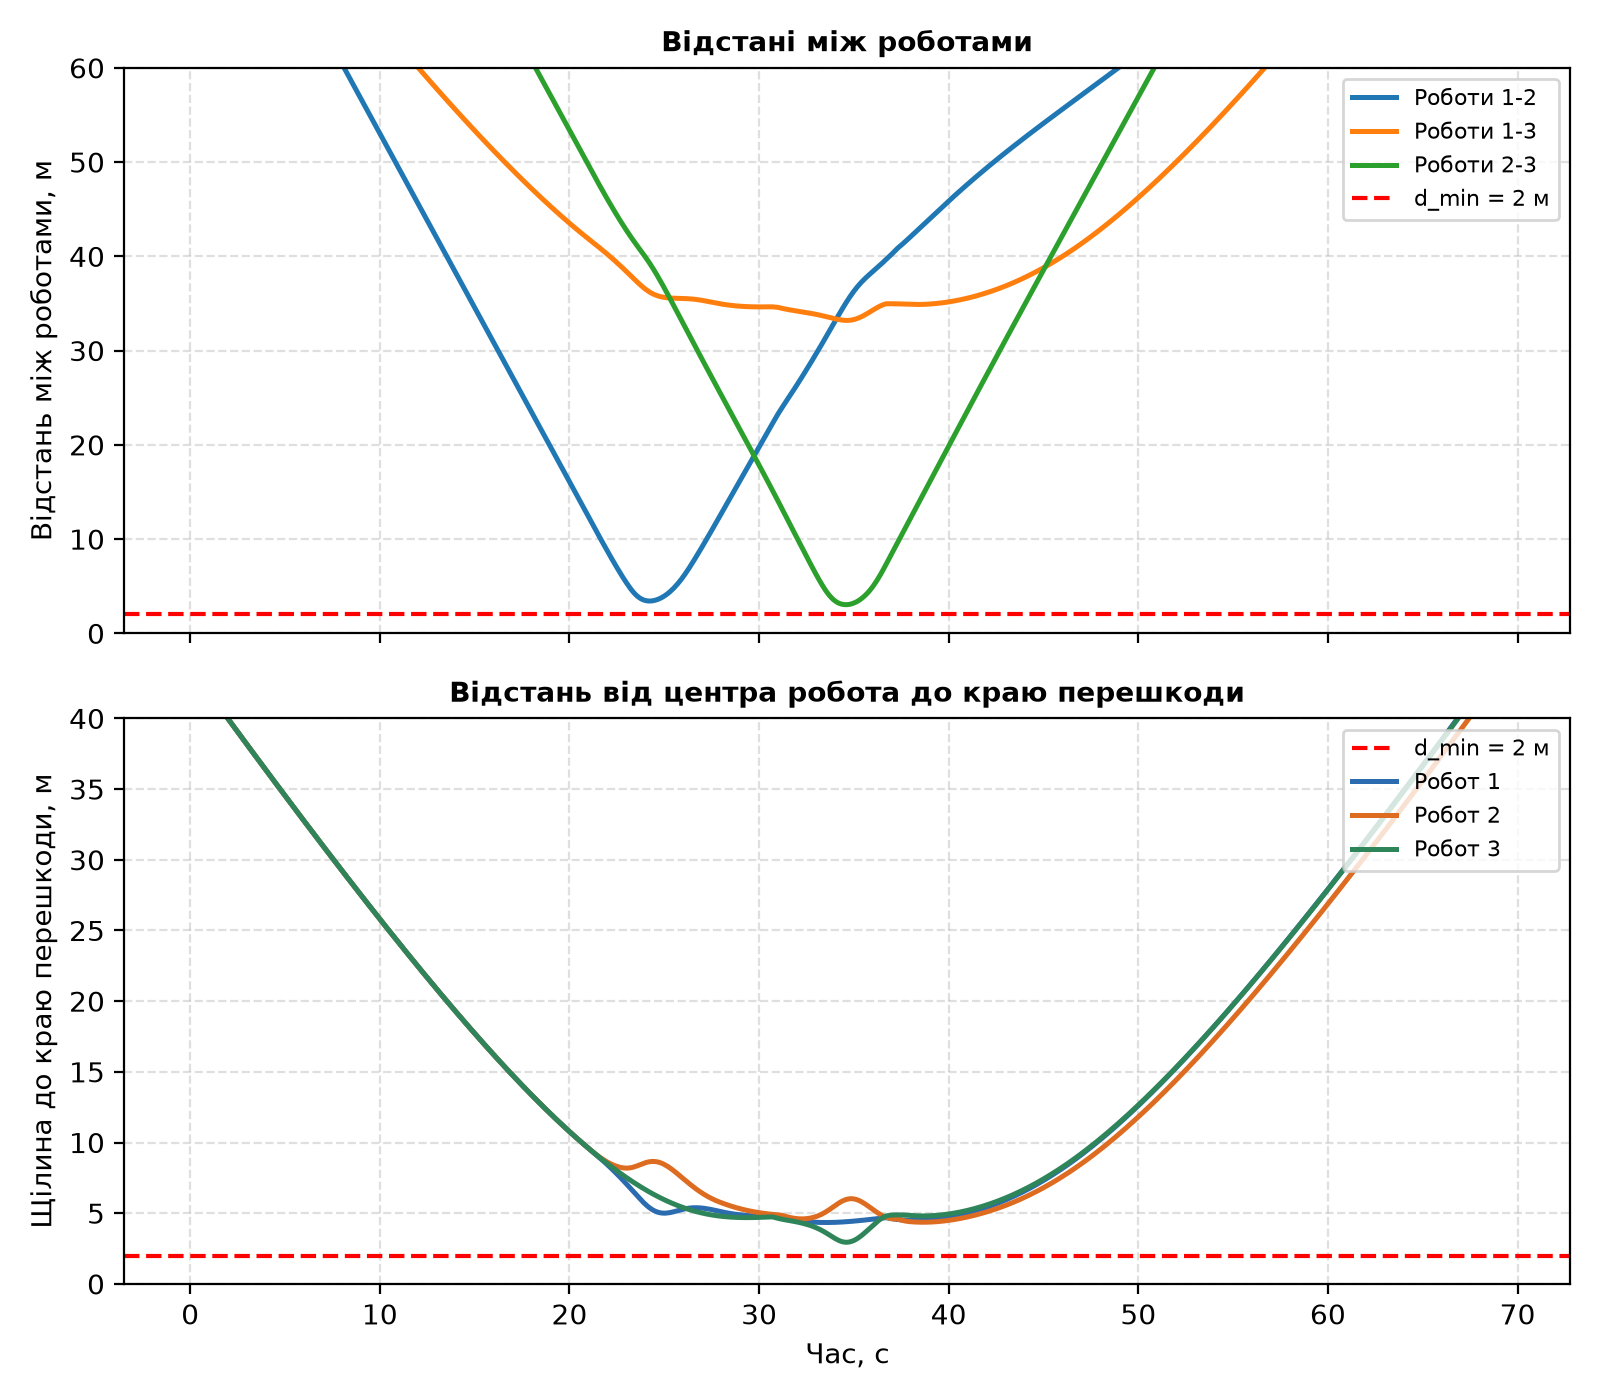
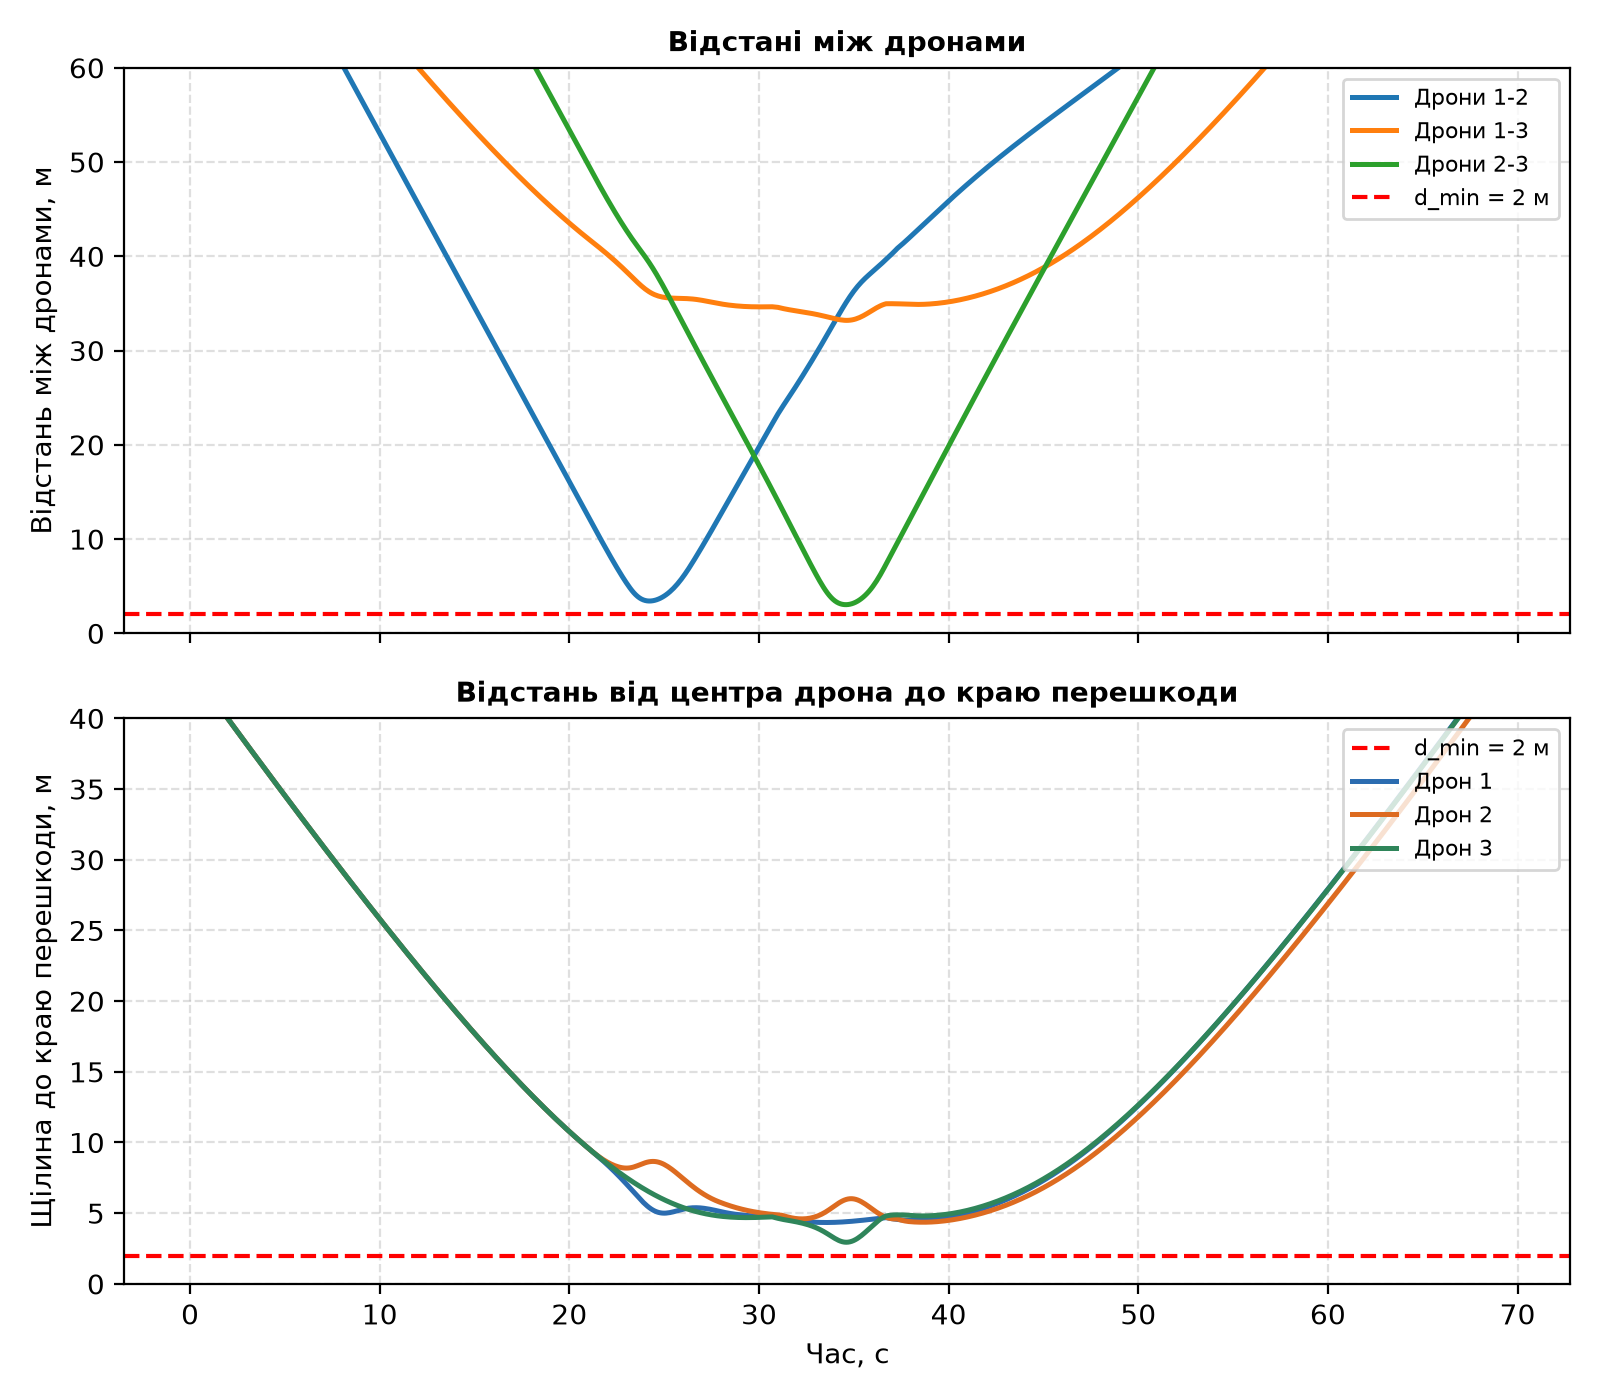
Rename robots to drones; topic: practical 4 (A* route optimisation)

diff --git a/lab1-variant17/run_variant17.py b/lab1-variant17/run_variant17.py
@@ -1,5 +1,5 @@
 """
-Лабораторна робота №1, варіант 17.
+Практичне заняття 4 (індивідуальне завдання №1), варіант 17.
 
 Запуск:
     python run_variant17.py            # розрахунок + графіки + таблиця метрик
@@ -25,9 +25,9 @@ from swarm import Params, Simulation
 # ---------------------------------------------------------------------------
 FIELD = (100, 100)
 OBSTACLES = [(50, 50, 20)]                              # (x, y, R)
-MISSIONS = [((5, 5), (95, 95)),                         # Робот 1
-            ((5, 95), (95, 5)),                         # Робот 2
-            ((95, 5), (5, 95))]                         # Робот 3
+MISSIONS = [((5, 5), (95, 95)),                         # Дрон 1
+            ((5, 95), (95, 5)),                         # Дрон 2
+            ((95, 5), (5, 95))]                         # Дрон 3
 D_MIN = 2.0
 COLORS = ["#2b6cb0", "#dd6b20", "#2f855a"]
 OUT = Path(__file__).parent / "results"
@@ -62,7 +62,7 @@ def plot_trajectories(sim, res, path, title):
     idx = [int(round(t / sim.prm.dt)) for t in np.arange(0, res.t[-1], snap_every)]
     for k, c in enumerate(COLORS):
         tr = res.traj[:, k]
-        ax.plot(tr[:, 0], tr[:, 1], "-", color=c, lw=2.4, zorder=4, label=f"Робот {k + 1}")
+        ax.plot(tr[:, 0], tr[:, 1], "-", color=c, lw=2.4, zorder=4, label=f"Дрон {k + 1}")
         ax.plot(*tr[0], "o", color=c, ms=9, mec="white", zorder=6)           # старт
         ax.plot(*sim.drones[k].goal, "x", color=c, ms=11, mew=3, zorder=6)    # ціль
         for i in idx[1:]:
@@ -78,16 +78,16 @@ def plot_trajectories(sim, res, path, title):
 def plot_distances(res, path):
     fig, (a1, a2) = plt.subplots(2, 1, figsize=(8, 7), dpi=200, sharex=True)
     for (i, j), d in res.pair_dist.items():
-        a1.plot(res.t, d, lw=1.8, label=f"Роботи {i}-{j}")
+        a1.plot(res.t, d, lw=1.8, label=f"Дрони {i}-{j}")
     a1.axhline(D_MIN, color="red", ls="--", label=f"d_min = {D_MIN:g} м")
-    a1.set_ylabel("Відстань між роботами, м"); a1.set_ylim(0, 60)
-    a1.set_title("Відстані між роботами", fontsize=10, fontweight="bold")
+    a1.set_ylabel("Відстань між дронами, м"); a1.set_ylim(0, 60)
+    a1.set_title("Відстані між дронами", fontsize=10, fontweight="bold")
     a2.axhline(D_MIN, color="red", ls="--", label=f"d_min = {D_MIN:g} м")
     for k, c in enumerate(COLORS):
-        a2.plot(res.t, res.obs_clear[:, k], color=c, lw=1.8, label=f"Робот {k + 1}")
+        a2.plot(res.t, res.obs_clear[:, k], color=c, lw=1.8, label=f"Дрон {k + 1}")
     a2.set_ylabel("Щілина до краю перешкоди, м"); a2.set_xlabel("Час, с")
     a2.set_ylim(0, 40)
-    a2.set_title("Відстань від центра робота до краю перешкоди", fontsize=10, fontweight="bold")
+    a2.set_title("Відстань від центра дрона до краю перешкоди", fontsize=10, fontweight="bold")
     for a in (a1, a2):
         a.grid(True, ls="--", alpha=0.4); a.legend(fontsize=8, loc="upper right")
     fig.tight_layout(); fig.savefig(path); plt.close(fig)
@@ -127,7 +127,7 @@ def summarize(label, sim, res):
         "all_reached": bool(res.all_reached),
         "finish_times_s": [None if f is None else round(float(f), 1) for f in res.finish_times],
         "makespan_s": None if not res.all_reached else round(float(res.makespan), 1),
-        "min_robot_robot_m": round(res.min_pair, 2),
+        "min_drone_drone_m": round(res.min_pair, 2),
         "min_clearance_to_obstacle_m": round(res.min_clearance, 2),
         "wait_steps": res.wait_steps,
         "path_lengths_m": [round(x, 1) for x in res.path_lengths],
@@ -166,9 +166,9 @@ def main(make_animation):
                                       encoding="utf-8")
 
     # ---- таблиця у консоль ----
-    print(f"{'Конфігурація':42s} {'T, с':>6s} {'min роб-роб':>12s} {'min до перешк.':>15s}  d_min")
+    print(f"{'Конфігурація':42s} {'T, с':>6s} {'min дрон-дрон':>12s} {'min до перешк.':>15s}  d_min")
     for r in rows:
-        print(f"{r['config']:42s} {r['makespan_s']!s:>6s} {r['min_robot_robot_m']:>12.2f} "
+        print(f"{r['config']:42s} {r['makespan_s']!s:>6s} {r['min_drone_drone_m']:>12.2f} "
               f"{r['min_clearance_to_obstacle_m']:>15.2f}  {'OK' if r['d_min_ok'] else 'ПОРУШЕНО'}")
     main_row = rows[1]
     print("\nОсновна конфігурація:")

diff --git a/lab1-variant17/test_variant17.py b/lab1-variant17/test_variant17.py
@@ -10,8 +10,8 @@ from run_variant17 import run, D_MIN
 class Variant17Test(unittest.TestCase):
     def test_main_configuration_meets_requirements(self):
         sim, res = run(use_right_hand=True, use_yield=False)
-        self.assertTrue(res.all_reached, "не всі роботи досягли цілей")
-        self.assertGreaterEqual(res.min_pair, D_MIN, "порушено d_min між роботами")
+        self.assertTrue(res.all_reached, "не всі дрони досягли цілей")
+        self.assertGreaterEqual(res.min_pair, D_MIN, "порушено d_min між дронами")
         self.assertGreaterEqual(res.min_clearance, D_MIN, "порушено d_min до перешкоди")
 
     def test_time_close_to_lower_bound(self):

diff --git a/lab1-variant17/swarm.py b/lab1-variant17/swarm.py
@@ -1,6 +1,6 @@
 """
-Лабораторна робота №1.
-Керування групою роботів (дронів) із глобальним плануванням A* та локальним
+Практичне заняття 4 (індивідуальне завдання №1).
+Керування групою дронів (дронів) із глобальним плануванням A* та локальним
 уникненням зіткнень методом штучних потенційних полів (APF).
 
 Модуль містить:

diff --git a/lab1-variant17/sensitivity.py b/lab1-variant17/sensitivity.py
@@ -40,7 +40,7 @@ def main():
         ok = sum(r["ok"] for r in rows)
         Ts = [r["T"] for r in rows]
         print(f"{name:7s}: успішних {ok}/{len(rows)}, T = {min(Ts)}..{max(Ts)} с, "
-              f"min між роботами = {min(r['min_pair'] for r in rows)} м, "
+              f"min між дронами = {min(r['min_pair'] for r in rows)} м, "
               f"min до перешкоди = {min(r['min_clear'] for r in rows)} м")
 
 

diff --git a/lab1-variant17/README.md b/lab1-variant17/README.md
@@ -1,6 +1,9 @@
-# Лабораторна №1, варіант 17: A* + APF для групи роботів
+# Практичне заняття 4 (індивідуальне завдання №1), варіант 17
 
-Децентралізоване керування групою з трьох роботів: **глобальний маршрут A\*** на сітці
+**Система управління рухом дронів до своїх цілей за наявності перешкод із механізмом A\* оптимізації маршрутів.**
+Дисципліна «Математичне моделювання та обчислювальні методи», ЗУНУ.
+
+Децентралізоване керування групою з трьох дронів: **глобальний маршрут A\*** на сітці
 та **локальне уникнення зіткнень** методом штучних потенційних полів (APF)
 з правилом «правої руки».
 
@@ -8,7 +11,7 @@
 
 ## Умова (варіант 17, «Обхід по великому радіусу»)
 
-| Робот | Старт → ціль |
+| Дрон | Старт → ціль |
 |---|---|
 | 1 | (5, 5) → (95, 95) |
 | 2 | (5, 95) → (95, 5) |
@@ -20,7 +23,7 @@
 
 ## Результат
 
-| Конфігурація | Час, с | Мін. між роботами, м | Мін. до перешкоди, м |
+| Конфігурація | Час, с | Мін. між дронами, м | Мін. до перешкоди, м |
 |---|---|---|---|
 | A\* + відштовхування (як у прикладі) | 89.8 | 2.47 | 2.48 |
 | **A\* + відштовхування + права рука** | **69.3** | **3.04** | **2.94** |
@@ -55,8 +58,8 @@ python -m unittest -v             # автотест критерію d_min
 
 ## Припущення
 
-- Робот — точка; `d_min` застосовується до відстані між центрами роботів
-  і до щілини між центром робота та краєм перешкоди.
+- Дрон — точка; `d_min` застосовується до відстані між центрами дронів
+  і до щілини між центром дрона та краєм перешкоди.
 - `v_max = 2.0 м/с` (в умові не задано); час масштабується обернено до `v_max`.
 - Двофазне синхронне оновлення: спочатку всі швидкості, потім усі позиції.
-- Робот, що досяг цілі, лишається на місці як нерухомий об'єкт.
+- Дрон, що досяг цілі, лишається на місці як нерухомий об'єкт.

diff --git a/README.md b/README.md
@@ -8,7 +8,7 @@
 
 | Робота | Тема | Варіант |
 |---|---|---|
-| [lab1-variant17](lab1-variant17) | Група роботів: глобальний A\* + локальні потенційні поля (APF) | 17 |
+| [lab1-variant17](lab1-variant17) | Група дронів: глобальний A\* + локальні потенційні поля (APF) | 17 |
 
 ## Як запустити будь-яку роботу
 
